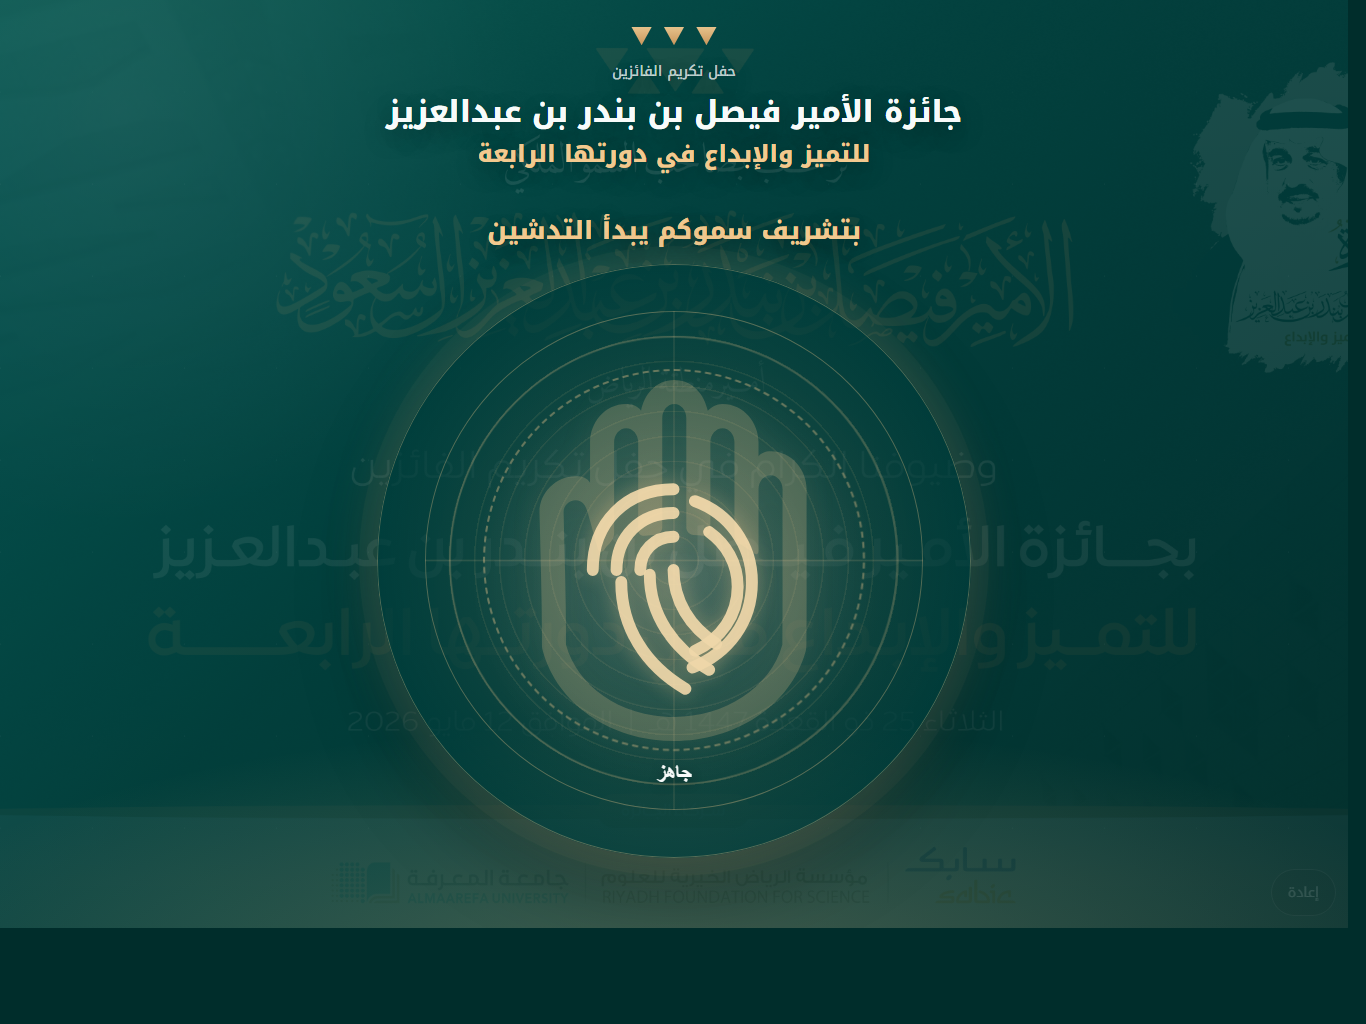
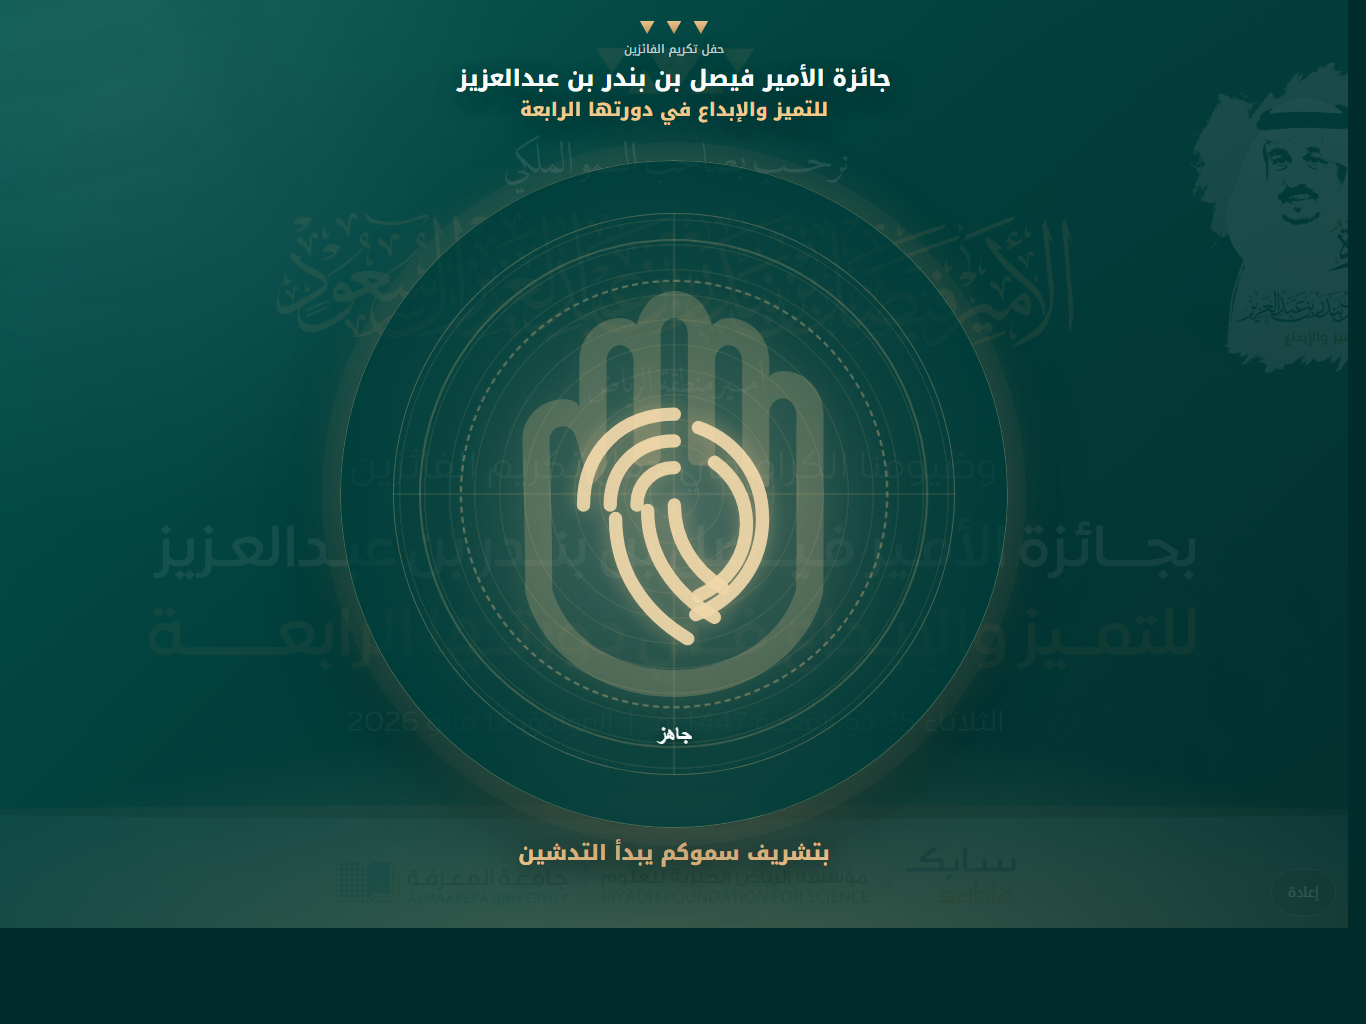
Recenter launch circle and reduce text

diff --git a/styles.css b/styles.css
@@ -83,7 +83,7 @@ body {
   display: grid;
   grid-template-rows: auto minmax(0, 1fr);
   place-items: center;
-  padding: max(22px, var(--safe-top)) clamp(20px, 4vw, 72px) max(18px, var(--safe-bottom));
+  padding: max(16px, var(--safe-top)) clamp(16px, 3vw, 54px) max(14px, var(--safe-bottom));
   background:
     radial-gradient(circle at 50% 62%, rgba(242, 201, 143, 0.18), transparent 28%),
     radial-gradient(circle at 9% 12%, rgba(255, 255, 255, 0.12), transparent 28%),
@@ -129,7 +129,7 @@ body {
   width: min(1120px, 100%);
   display: grid;
   justify-items: center;
-  gap: clamp(4px, 0.7dvh, 8px);
+  gap: clamp(2px, 0.45dvh, 6px);
   padding-top: clamp(2px, 0.5dvh, 8px);
   text-align: center;
   text-shadow: 0 7px 24px rgba(0, 0, 0, 0.34);
@@ -139,12 +139,12 @@ body {
   display: flex;
   gap: clamp(8px, 1vw, 12px);
   direction: ltr;
-  margin-bottom: clamp(3px, 0.7dvh, 8px);
+  margin-bottom: 0;
 }
 
 .motif span {
-  width: clamp(18px, 2.2dvh, 26px);
-  height: clamp(16px, 2dvh, 23px);
+  width: clamp(13px, 1.6dvh, 20px);
+  height: clamp(12px, 1.45dvh, 18px);
   background: linear-gradient(180deg, var(--gold-light), var(--gold));
   clip-path: polygon(50% 100%, 0 0, 100% 0);
   opacity: 0.95;
@@ -158,38 +158,38 @@ body {
 
 .brand p {
   color: var(--muted);
-  font-size: clamp(13px, 1.55dvh, 19px);
+  font-size: clamp(11px, 1.25dvh, 16px);
   font-weight: 500;
 }
 
 .brand h1 {
   color: var(--white);
-  font-size: clamp(22px, 3.25dvh, 44px);
+  font-size: clamp(18px, 2.45dvh, 34px);
   font-weight: 800;
-  line-height: 1.35;
+  line-height: 1.28;
 }
 
 .brand h2 {
   color: var(--gold-light);
-  font-size: clamp(18px, 2.55dvh, 35px);
+  font-size: clamp(15px, 2dvh, 28px);
   font-weight: 800;
   line-height: 1.32;
 }
 
 .activation {
-  width: min(980px, 100%);
+  width: min(1120px, 100%);
   min-height: 0;
   display: grid;
-  grid-template-rows: auto minmax(0, 1fr);
+  grid-template-rows: minmax(0, 1fr) auto;
   place-items: center;
-  gap: clamp(10px, 1.6dvh, 18px);
-  padding-bottom: clamp(4px, 1dvh, 12px);
+  gap: clamp(8px, 1.2dvh, 14px);
+  padding-bottom: clamp(2px, 0.8dvh, 10px);
 }
 
 .status-line {
   min-height: 1.24em;
   color: var(--gold-light);
-  font-size: clamp(19px, 2.7dvh, 34px);
+  font-size: clamp(17px, 2.25dvh, 29px);
   font-weight: 800;
   line-height: 1.42;
   text-align: center;
@@ -198,7 +198,7 @@ body {
 
 .palm-pad {
   position: relative;
-  width: min(64dvh, 70vw, 660px);
+  width: min(72dvh, 78vw, 760px);
   aspect-ratio: 1 / 1;
   border: 0;
   border-radius: 50%;
@@ -514,12 +514,12 @@ body {
 
 @media (orientation: portrait) {
   .launch-screen {
-    padding-inline: clamp(12px, 3vw, 28px);
+    padding: max(10px, var(--safe-top)) clamp(8px, 2vw, 20px) max(8px, var(--safe-bottom));
     grid-template-rows: auto minmax(0, 1fr);
   }
 
   .brand {
-    gap: clamp(3px, 0.6dvh, 8px);
+    gap: clamp(2px, 0.35dvh, 5px);
   }
 
   .motif {
@@ -527,33 +527,33 @@ body {
   }
 
   .motif span {
-    width: clamp(15px, 1.8dvh, 22px);
-    height: clamp(13px, 1.6dvh, 20px);
+    width: clamp(12px, 1.35dvh, 17px);
+    height: clamp(10px, 1.2dvh, 15px);
   }
 
   .brand p {
-    font-size: clamp(12px, 1.4dvh, 17px);
+    font-size: clamp(10px, 1.1dvh, 14px);
   }
 
   .brand h1 {
-    max-width: 9.8em;
-    font-size: clamp(19px, 2.45dvh, 30px);
-    line-height: 1.35;
-  }
-
-  .brand h2 {
-    max-width: 11.5em;
-    font-size: clamp(16px, 2dvh, 25px);
+    max-width: 10.5em;
+    font-size: clamp(15px, 1.9dvh, 24px);
     line-height: 1.3;
   }
 
+  .brand h2 {
+    max-width: 12em;
+    font-size: clamp(13px, 1.55dvh, 20px);
+    line-height: 1.28;
+  }
+
   .status-line {
-    font-size: clamp(18px, 2.35dvh, 29px);
+    font-size: clamp(16px, 1.95dvh, 24px);
     line-height: 1.35;
   }
 
   .palm-pad {
-    width: min(52dvh, 88vw, 680px);
+    width: min(61dvh, 96vw, 790px);
   }
 }
 
@@ -563,23 +563,23 @@ body {
   }
 
   .brand h1 {
-    font-size: clamp(21px, 3dvh, 34px);
+    font-size: clamp(17px, 2.35dvh, 27px);
   }
 
   .brand h2 {
-    font-size: clamp(17px, 2.55dvh, 29px);
+    font-size: clamp(14px, 1.95dvh, 23px);
   }
 
   .brand p {
-    font-size: clamp(15px, 2dvh, 22px);
+    font-size: clamp(11px, 1.45dvh, 17px);
   }
 
   .status-line {
-    font-size: clamp(18px, 2.65dvh, 29px);
+    font-size: clamp(15px, 2dvh, 23px);
   }
 
   .palm-pad {
-    width: min(45dvh, 38vw, 390px);
+    width: min(58dvh, 50vw, 520px);
   }
 }
 

diff --git a/index.html b/index.html
@@ -23,8 +23,6 @@
       </section>
 
       <section class="activation" aria-live="polite">
-        <div class="status-line" id="statusLine">بتشريف سموكم يبدأ التدشين</div>
-
         <button class="palm-pad" id="palmPad" type="button" aria-label="منطقة تفعيل التدشين">
           <span class="halo halo-one"></span>
           <span class="halo halo-two"></span>
@@ -45,6 +43,8 @@
           <span class="progress-ring" aria-hidden="true"></span>
           <span class="progress-text" id="progressText">جاهز</span>
         </button>
+
+        <div class="status-line" id="statusLine">بتشريف سموكم يبدأ التدشين</div>
       </section>
 
       <section class="reveal" aria-live="assertive">
